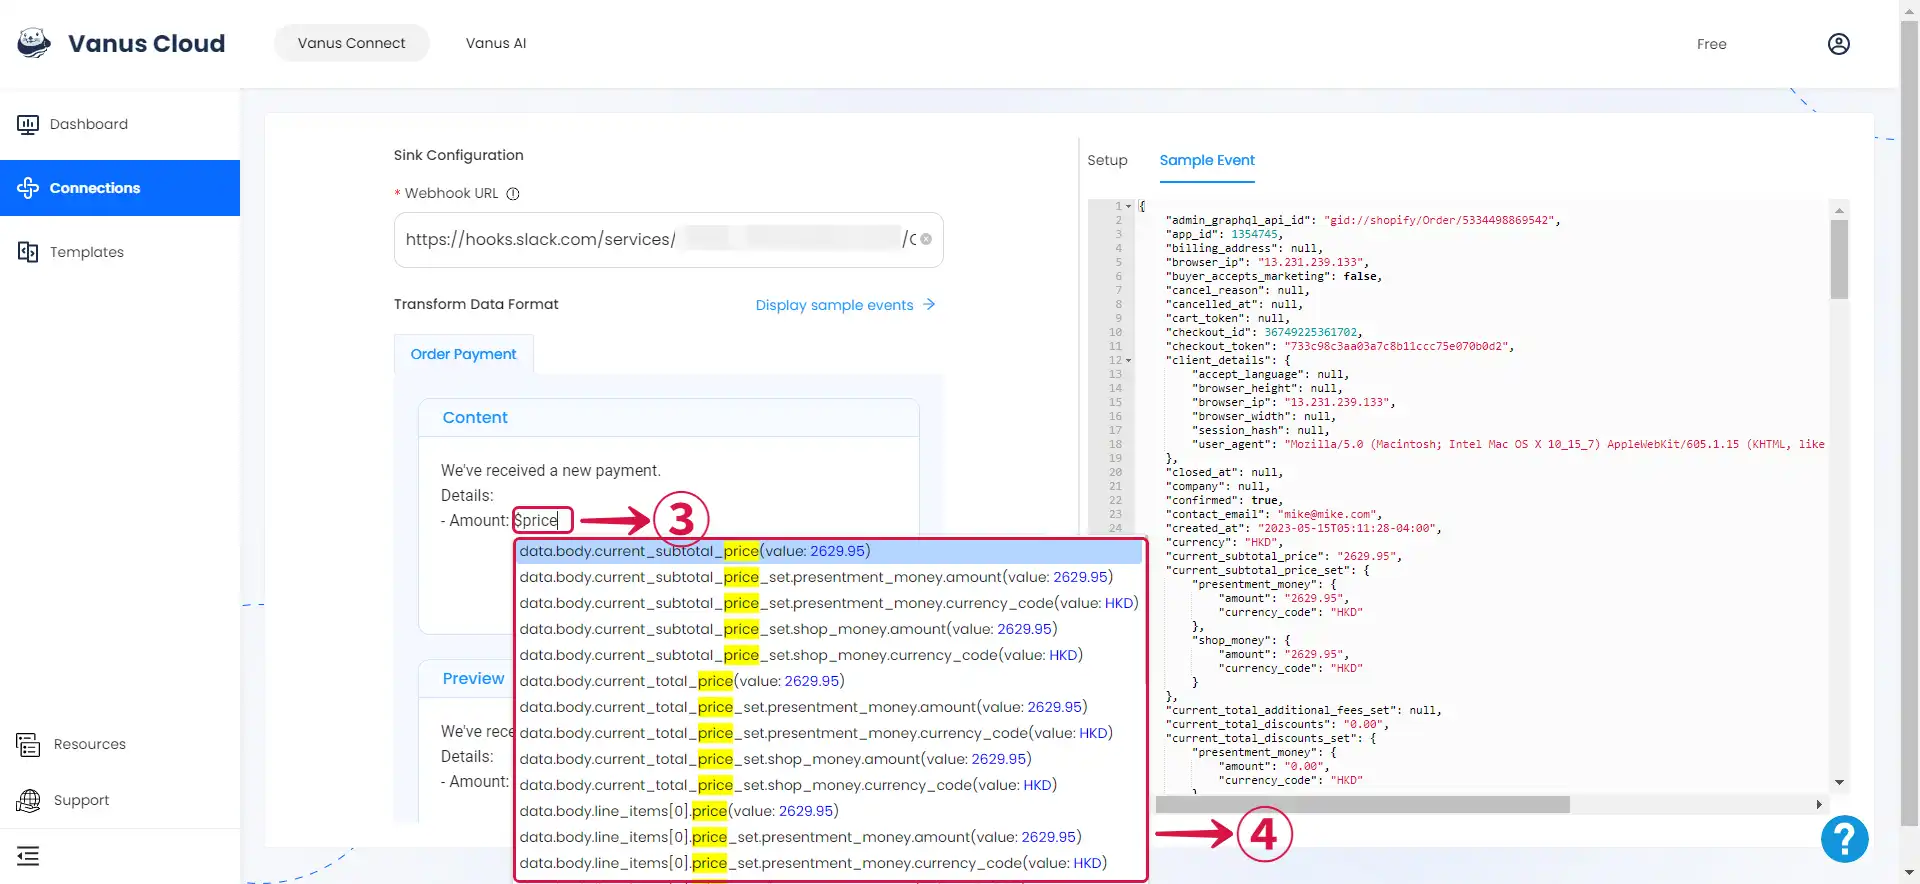
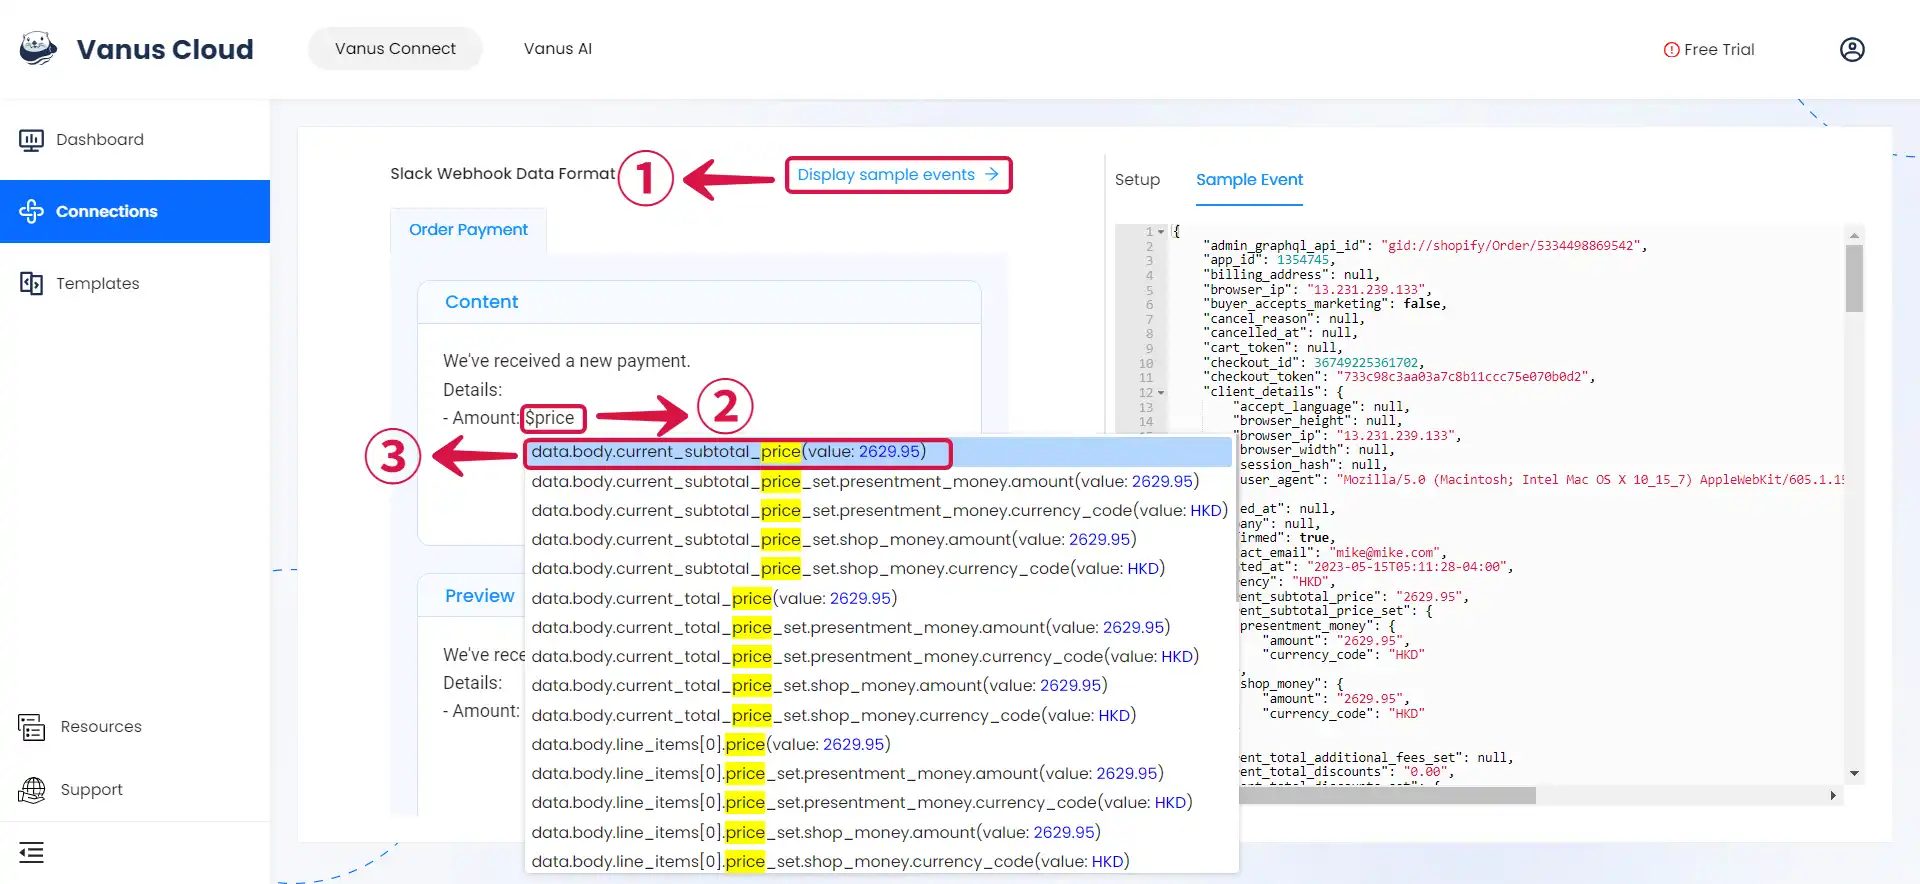
Docs: Slack Webhook update

diff --git a/content/cloud-docs/sink/slack/setup.md b/content/cloud-docs/sink/slack/setup.md
@@ -55,6 +55,10 @@ If you have created a Slack App already, you can skip Step 1 and directly go to 
 
 ![slack-sink-8](images/slack-sink-8.webp)
 
+6. Return to the Vanus Connect page and paste your webhook URL in the **Webhook URL**⑦ field.
+
+![slack-sink-9](images/slack-sink-9.webp)
+
 ---
 
 ### Step 3: Personalize Event Structure
@@ -63,19 +67,15 @@ If you have created a Slack App already, you can skip Step 1 and directly go to 
 This is a general instruction on how to personalize your event structure. You can structure your events to suit your specific requirements and create connections for different scenarios.
 :::
 
-1. Paste the Webhook URL into the **Webhook URL**① field, and click on **Display sample events**② for reference.
-
-![slack-sink-9](images/slack-sink-9.webp)
-
-2. Compose your preferred message, then type **`$` followed by the desired event③** to access a **list of associated event values**④, and choose the one you prefer.
+1. Click on **Display sample events**① for reference, compose your preferred message, then type **`$` followed by the desired event**② to access a **list of associated event values**③, and choose the one you prefer.
 
 ![slack-sink-10](images/slack-sink-10.webp)
 
-3. You can structure the content as you prefer and fill in as many **values**⑤ as you wish to receive.
+2. You can structure the content as you prefer and fill in as many **values**④ as you wish to receive.
 
 ![slack-sink-11](images/slack-sink-11.webp)
 
-4. Click **Submit**⑥ to finish the configuration process.
+3. Click **Submit**⑤ to finish the configuration process.
 
 ![slack-sink-12](images/slack-sink-12.webp)
 

diff --git a/content/vanus-connect/connector-guides/sink/slack/setup.md b/content/vanus-connect/connector-guides/sink/slack/setup.md
@@ -64,6 +64,10 @@ If you have created a Slack App already, you can skip Step 1 and directly go to 
 
 ![slack-sink-8](images/slack-sink-8.webp)
 
+6. Return to the Vanus Connect page and paste your webhook URL in the **Webhook URL**⑦ field.
+
+![slack-sink-9](images/slack-sink-9.webp)
+
 ---
 
 ### Step 3: Personalize Event Structure
@@ -72,19 +76,15 @@ If you have created a Slack App already, you can skip Step 1 and directly go to 
 This is a general instruction on how to personalize your event structure. You can structure your events to suit your specific requirements and create connections for different scenarios.
 :::
 
-1. Paste the Webhook URL into the **Webhook URL**① field, and click on **Display sample events**② for reference.
-
-![slack-sink-9](images/slack-sink-9.webp)
-
-2. Compose your preferred message, then type **`$` followed by the desired event③** to access a **list of associated event values**④, and choose the one you prefer.
+1. Click on **Display sample events**① for reference, compose your preferred message, then type **`$` followed by the desired event**② to access a **list of associated event values**③, and choose the one you prefer.
 
 ![slack-sink-10](images/slack-sink-10.webp)
 
-3. You can structure the content as you prefer and fill in as many **values**⑤ as you wish to receive.
+2. You can structure the content as you prefer and fill in as many **values**④ as you wish to receive.
 
 ![slack-sink-11](images/slack-sink-11.webp)
 
-4. Click **Submit**⑥ to finish the configuration process.
+3. Click **Submit**⑤ to finish the configuration process.
 
 ![slack-sink-12](images/slack-sink-12.webp)
 
